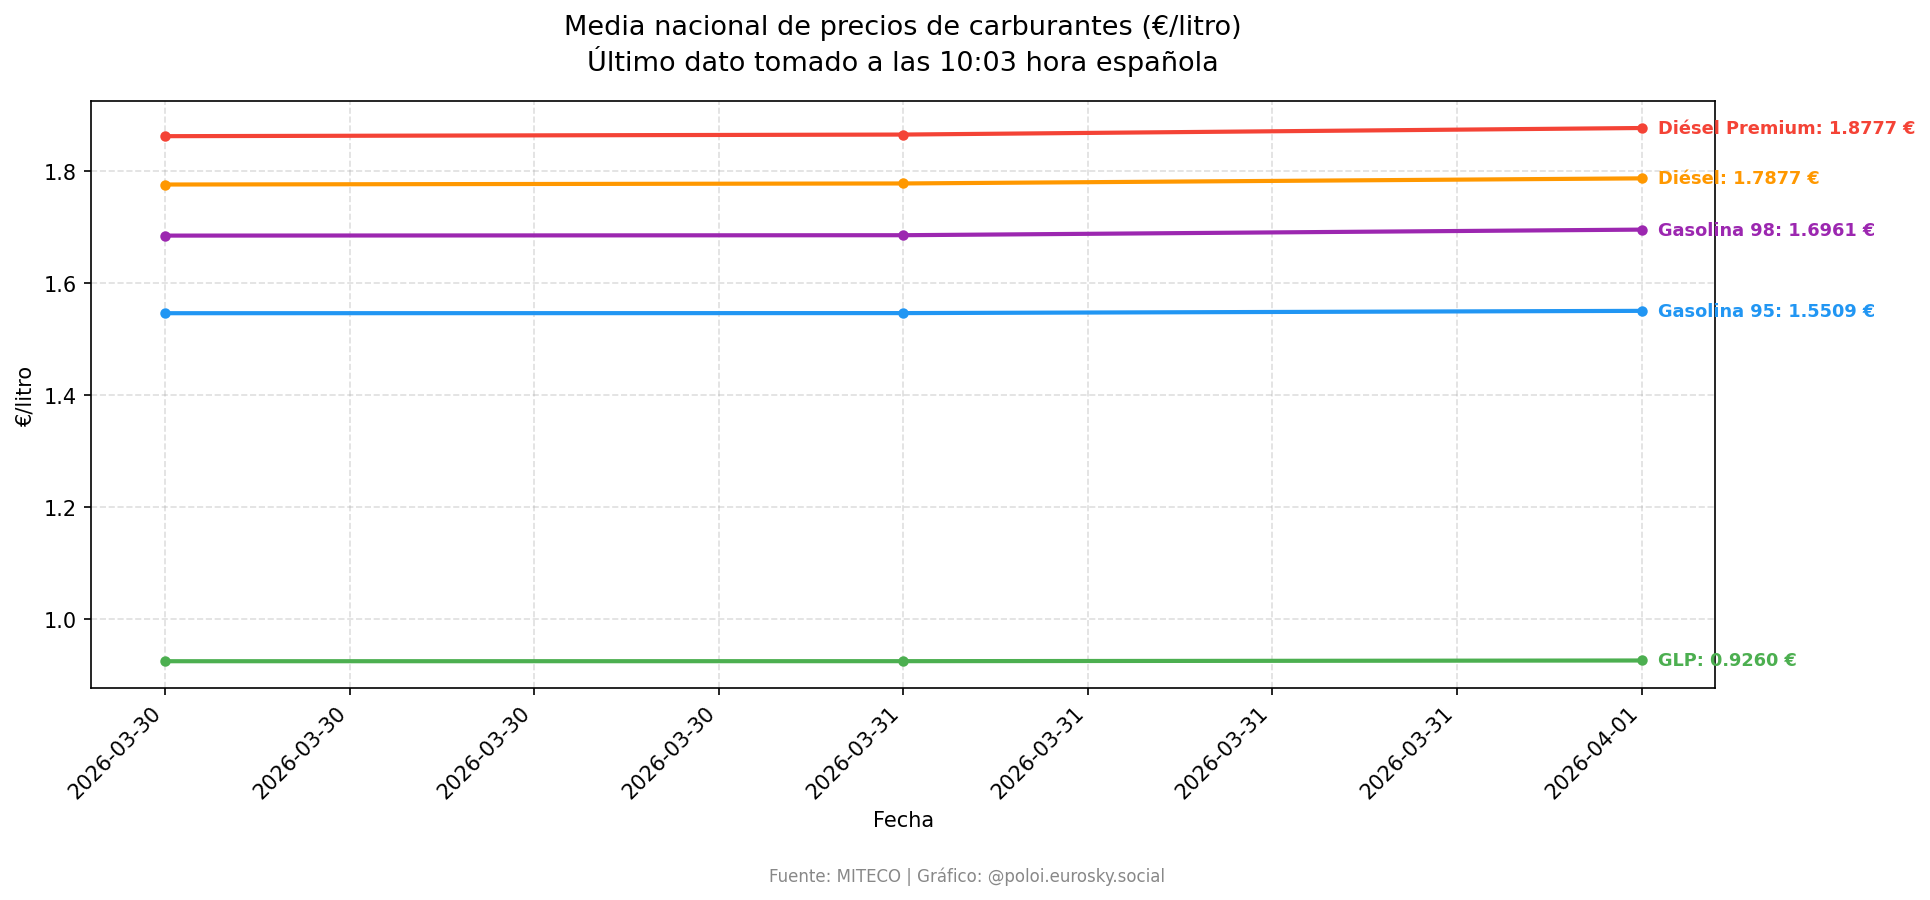
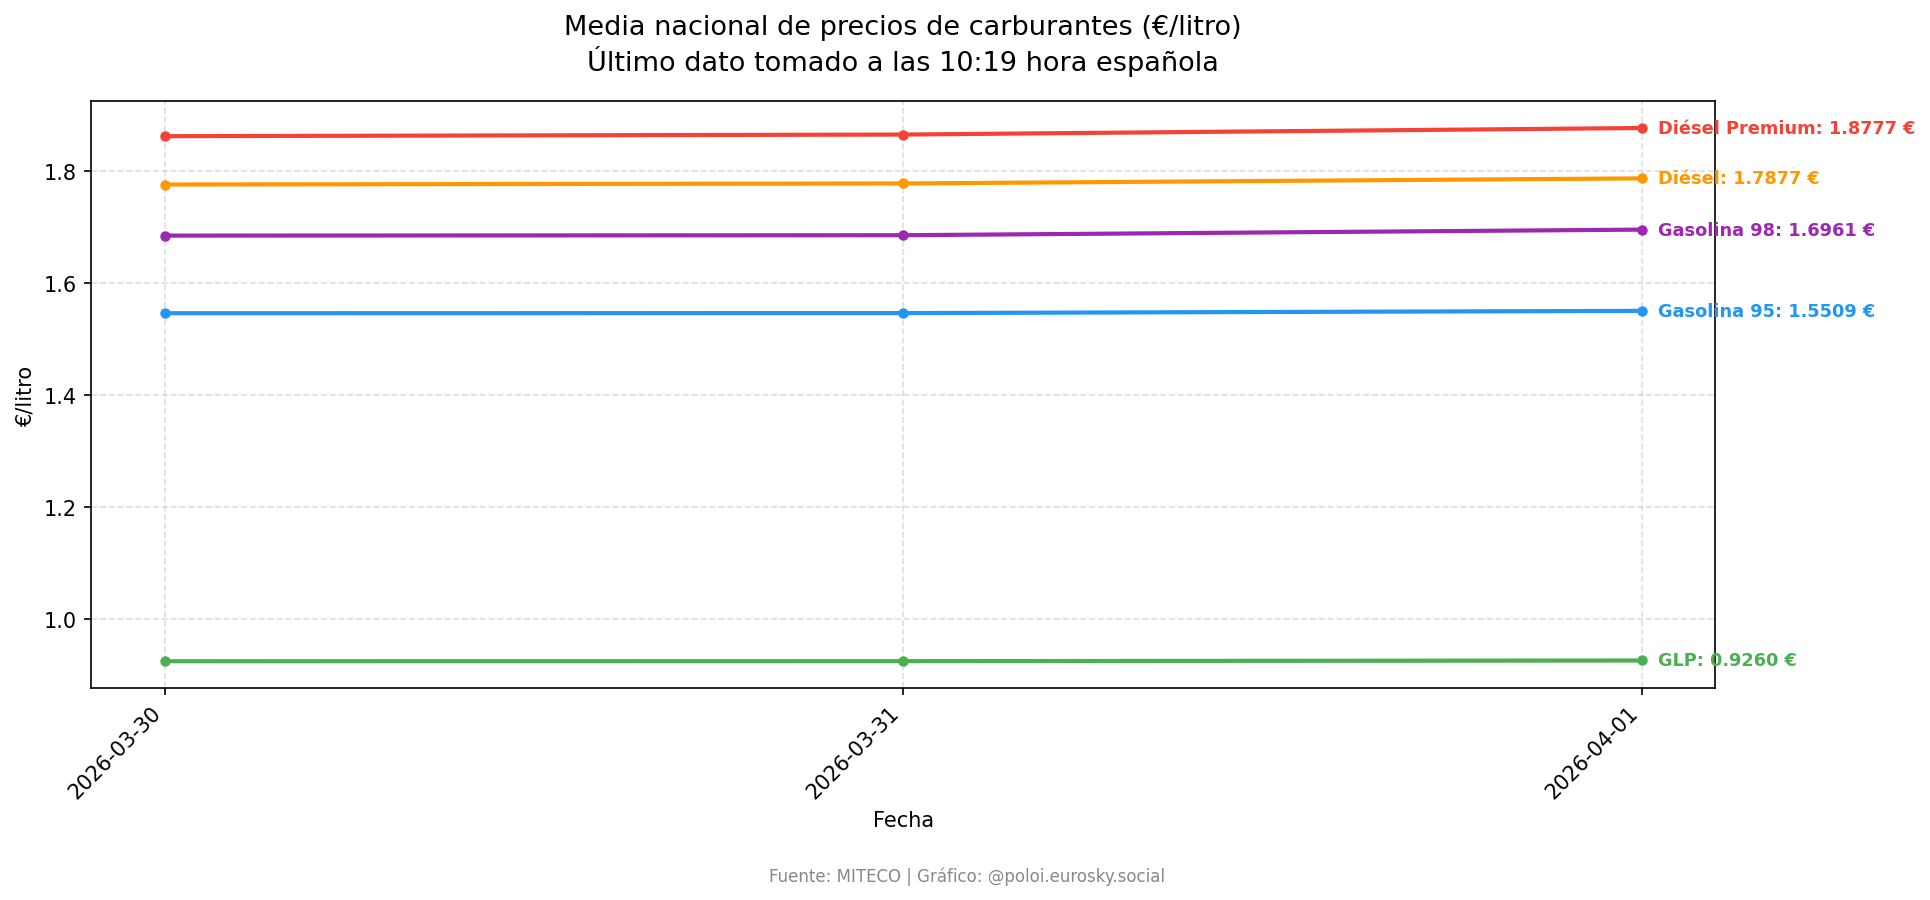
Fix: regenerar PNG con código correcto y arreglar eje X
- Corrige AutoDateLocator por DayLocator para evitar ticks repetidos
  cuando hay pocos días de datos
- Regenera PNG limpiando __pycache__ para usar el código actual

https://claude.ai/code/session_01CEQVUunWLDaMwWp45LKj1L

diff --git a/fetch_prices.py b/fetch_prices.py
@@ -180,7 +180,7 @@ def generate_chart() -> None:
     ax.set_xlabel("Fecha")
     ax.set_ylabel("€/litro")
     ax.xaxis.set_major_formatter(mdates.DateFormatter("%Y-%m-%d"))
-    ax.xaxis.set_major_locator(mdates.AutoDateLocator())
+    ax.xaxis.set_major_locator(mdates.DayLocator())
     fig.autofmt_xdate(rotation=45)
     ax.grid(True, linestyle="--", alpha=0.4)
 
